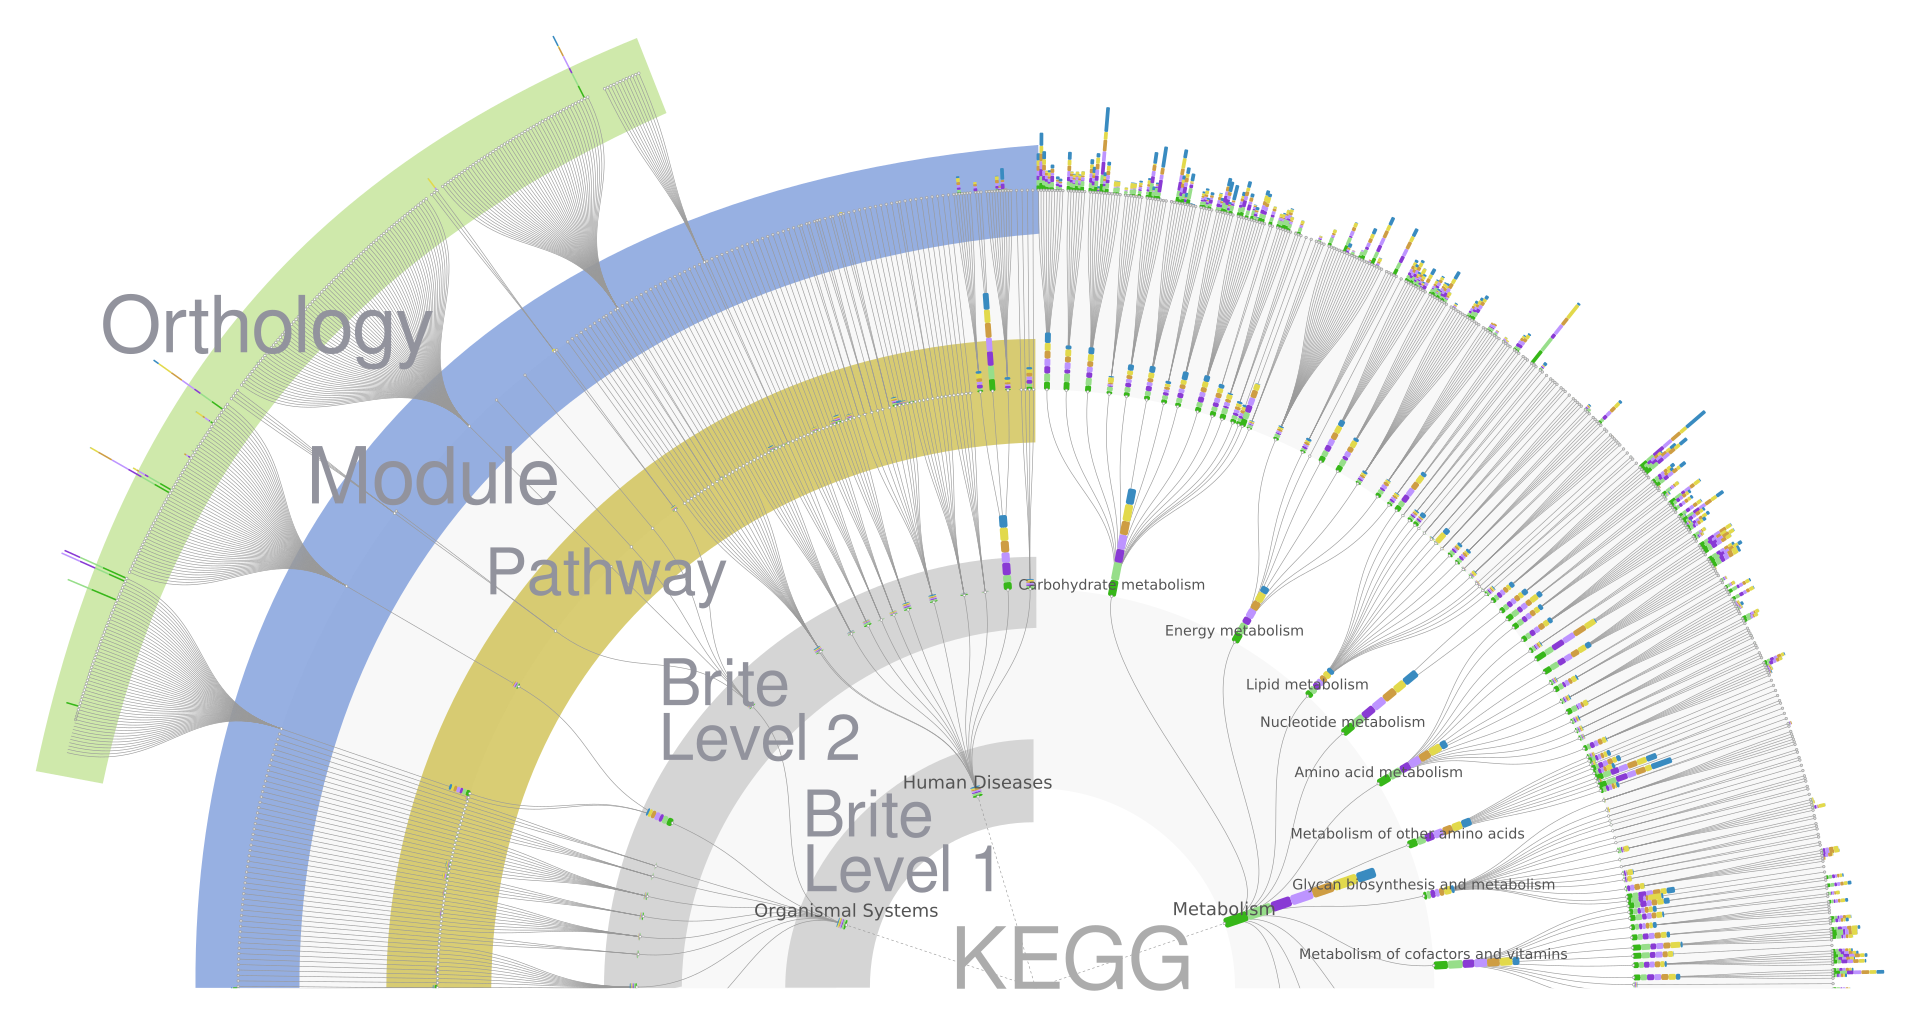
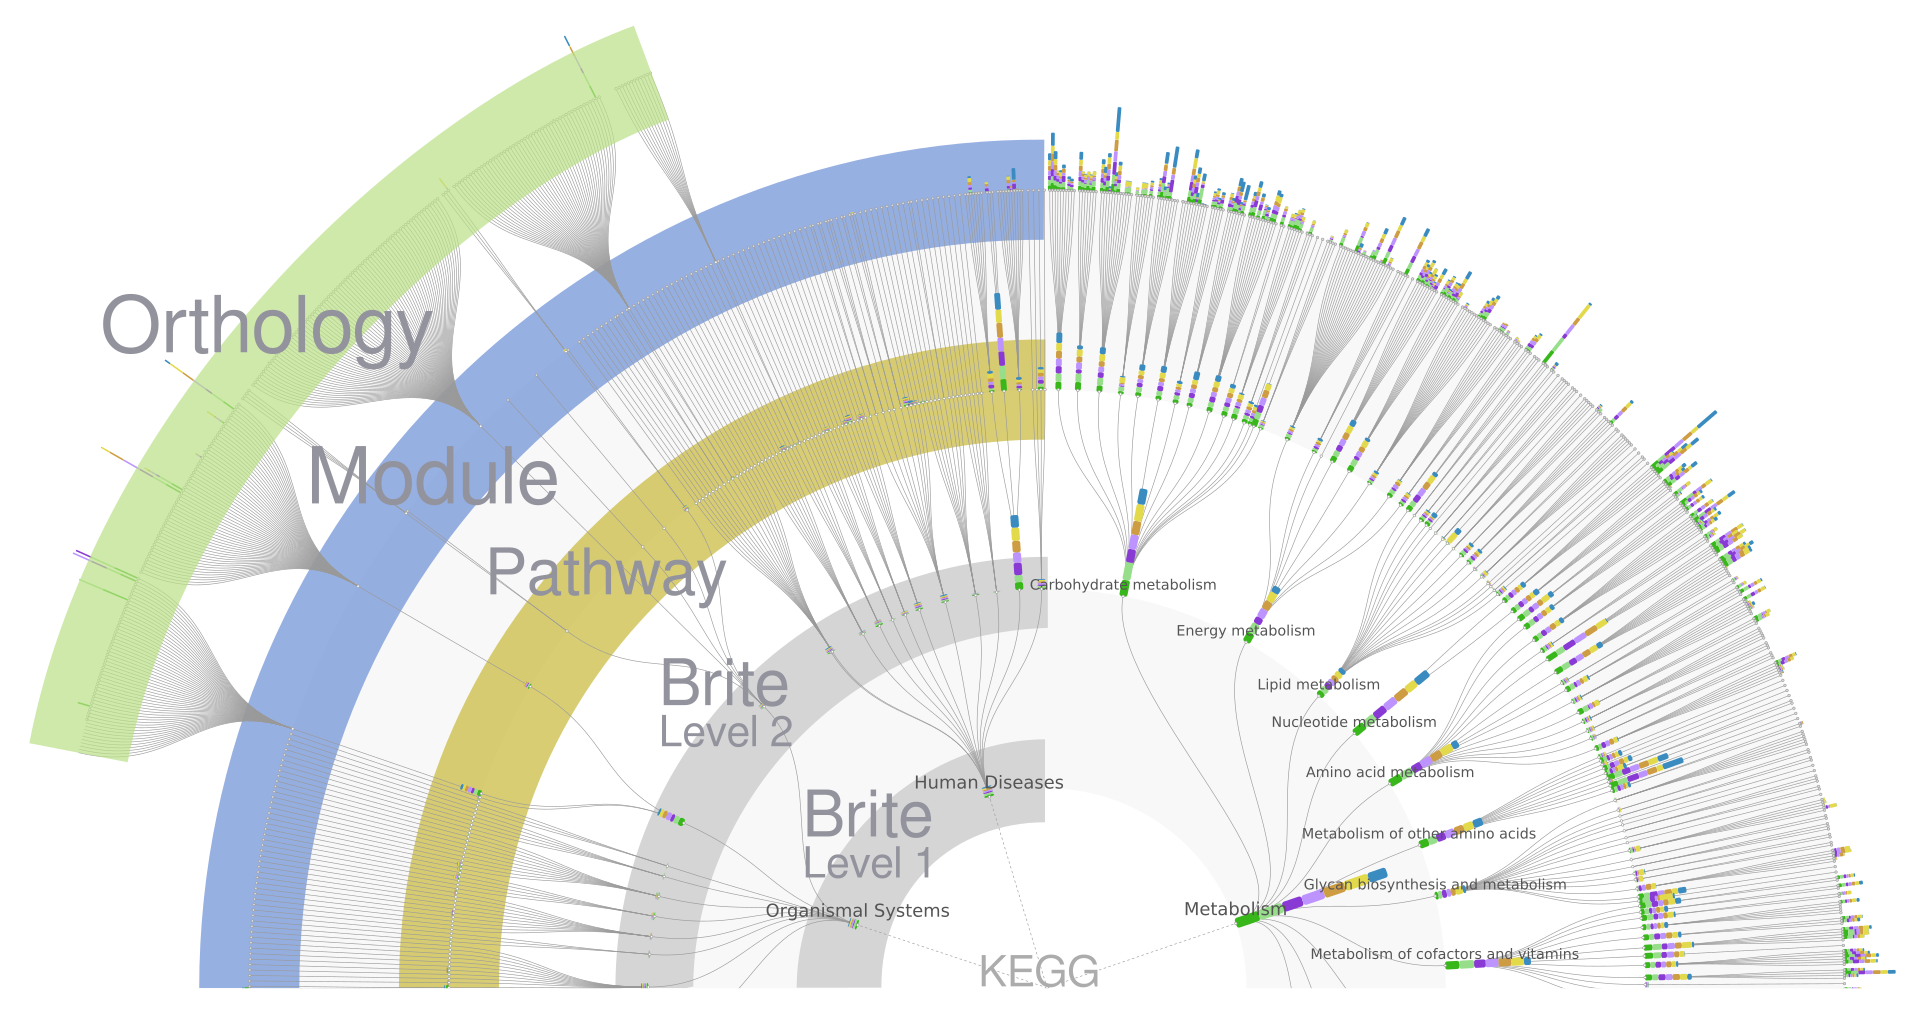
Enabling of generic reference tree upload
- Tested with FOAM

diff --git a/functree/templates/upload.html b/functree/templates/upload.html
@@ -1,0 +1,82 @@
+{% set title = 'Submit' %}
+{% extends 'layout.html' %}
+
+{% block content %}
+<div class="container">
+    <div class="page-header">
+        <h2>Upload reference Tree</h2>
+    </div>
+    <form class="form-horizontal" action="{{ url_for('route_data_upload') }}" method="POST" enctype="multipart/form-data">
+        {{ form.csrf_token }}
+        <fieldset>
+            <div class="panel panel-default">
+                <div class="panel-heading">
+                    <legend>Reference tree upload</legend>
+                    <p>Upload a reference tree to use for mapping<p>
+                </div>
+                <div class="panel-body">
+                    <div class="form-group{% if form.input_file.errors %} has-error{% endif %}">
+                        {{ form.input_file.label(class='col-sm-2 control-label') }}
+                        <div class="col-sm-10">
+                            {{ form.input_file(class_='form-control-file') }}
+                            <span class="help-block">Example: <a href="{{ url_for('static', filename='data/example/reference_tree.json') }}" target="_blank"><i class="fa fa-download" aria-hidden="true"></i> Download</a></span>
+                            {% if form.input_file.errors %}
+                            <span class="help-block">
+                                {% for message in form.input_file.errors %}
+                                    {{ message }}
+                                {% endfor %}
+                            </span>
+                            {% endif %}
+                        </div>
+                    </div>
+                    <div class="form-group{% if form.target.errors %} has-error{% endif %}">
+                        {{ form.target.label(class='col-sm-2 control-label') }}
+                        <div class="col-sm-10">
+                            {{ form.target(class_='form-control') }}
+                            {% if form.target.errors %}
+                            <span class="help-block">
+                                {% for message in form.target.errors %}
+                                    {{ message }}
+                                {% endfor %}
+                            </span>
+                            {% endif %}
+                        </div>
+                    </div>
+                    <div class="form-group{% if form.description.errors %} has-error{% endif %}">
+                        {{ form.description.label(class='col-sm-2 control-label') }}
+                        <div class="col-sm-10">
+                            {{ form.description(class_='form-control', placeholder='A useful description for the result') }}
+                            {% if form.description.errors %}
+                            <span class="help-block">
+                                {% for message in form.description.errors %}
+                                    {{ message }}
+                                {% endfor %}
+                            </span>
+                            {% endif %}
+                        </div>
+                    </div>
+                    <div class="form-group">
+                        <div class="col-sm-10 col-sm-offset-2">
+                            <!-- {{ tags.expiry_notice()}} -->
+                            {{ form.submit(class_='btn btn-primary', **{'data-loading-text': 'Submitting...'}) }}
+                            <input type="reset" class="btn btn-default" value="Reset">
+                        </div>
+                    </div>
+                </div>
+            </div>
+        </fieldset>
+    </form>
+</div>
+{% endblock %}
+
+{% block script %}
+{{super()}}
+<script>
+    $('input[type="submit"]').on('click', function() {
+        $(this).button('loading');
+        setTimeout(function() {
+            $(this).button('reset');
+        }, 600000);
+    });
+</script>
+{% endblock %}

diff --git a/functree/templates/functree.html b/functree/templates/functree.html
@@ -20,11 +20,11 @@
     </div>
 </form>
 <hr>
-<h5><i class="fa fa-cog" aria-hidden="true"></i> Options <a href="#form-options" data-toggle="collapse"><i class="fa fa-caret-down" aria-hidden="true"></i></a></h5>
+<h5><i class="fa fa-cog" aria-hidden="true"></i> Options <a id="options" href="#form-options" data-toggle="collapse"><i class="fa fa-caret-down" aria-hidden="true"></i></a></h5>
 <form id="form-options" class="collapse" v-on:submit.prevent="submit" v-on:reset="reset">
     <div class="form-group">
         <label class="control-label">Data series</label>
-        <select class="form-control input-sm" v-on:change="clickOptionSeries" v-model="series">
+        <select id="series" class="form-control input-sm" v-on:change="clickOptionSeries" v-model="series">
             <option disabled value="">- Select data series -</option>
             <option v-for="(option, index) in options[0]" v-bind:value="index">{% raw %}{{option}}{% endraw %}</option>
         </select>
@@ -32,7 +32,7 @@
     <div class="form-group">
         <label class="control-label">Data mapping: Stacked bars of multiple columns</label>
         <h6>Choose column(s) to map</h6>
-        <select class="form-control input-sm" multiple v-model.number="columnsMultiple">
+        <select id="columns" class="form-control input-sm" multiple v-model.number="columnsMultiple">
             <option v-for="(option, index) in options[1]" v-bind:value="index">{% raw %}{{option}}{% endraw %}</option>
         </select>
         <h6>Stacking</h6>
@@ -71,7 +71,7 @@
         </select>
     </div>
     <div class="form-group text-center">
-        <button type="submit" class="btn btn-primary btn-sm"><i class="fa fa-refresh" aria-hidden="true"></i> Update</button>
+        <button id="update" type="submit" class="btn btn-primary btn-sm"><i class="fa fa-refresh" aria-hidden="true"></i> Update</button>
         <button type="reset" class="btn btn-default btn-sm"> Reset</button>
     </div>
 </form>
@@ -226,7 +226,7 @@
                     this.$set(this.options, 1, profile.columns[this.series]);
                 },
                 'submit': function() {
-                    console.log(this);
+                    //console.log(this);
                     var self = this;
                     var profileDict = {};
                     for (var i in profile.profile) {

diff --git a/functree/static/src/js/functree.js b/functree/static/src/js/functree.js
@@ -647,6 +647,14 @@ const FuncTree = class {
             .text((d) => {
                 return d.name.replace(/ \[.*\]/, '');
             });
+        /*
+        node.append("text")
+        .attr("dy", "0.31em")
+        .attr("x", function(d) { return d.x < Math.PI === !d.children ? 6 : -6; })
+        .attr("text-anchor", function(d) { return d.x < Math.PI === !d.children ? "start" : "end"; })
+        .attr("transform", function(d) { return "rotate(" + (d.x < Math.PI ? d.x - Math.PI / 2 : d.x + Math.PI / 2) * 180 / Math.PI + ")"; })
+        .text(function(d) { return d.id.substring(d.id.lastIndexOf(".") + 1); });*/
+        
         label
             .transition()
             .duration(this.config.duration)

diff --git a/functree/templates/data.html b/functree/templates/data.html
@@ -14,6 +14,11 @@
     <div class="page-header">
         <h3>Functional Trees</h3>
     </div>
+    <div>
+    
+    <a href="{{ url_for('route_data_upload') }}" class="btn btn-primary btn-lg btn-block" >Upload a custom reference tree</a>
+    </div>
+    <br /><br />
     <table id="table-tree" class="table table-hover table-striped" width="100%">
         <thead>
             <tr>

diff --git a/functree/views.py b/functree/views.py
@@ -6,6 +6,7 @@ from selenium.webdriver.chrome.options import Options
 from selenium.webdriver.support.ui import WebDriverWait
 from selenium.webdriver.support import expected_conditions as EC
 from selenium.webdriver.common.by import By
+from selenium.webdriver.support.select import Select
 from selenium.common.exceptions import TimeoutException
 from functree import __version__, app, auth, csrf, filters, forms, models, tree, analysis, cache
 from functree.crckm.src import download as crckm
@@ -27,7 +28,7 @@ def mapping():
 @app.route('/api/comparison/', methods=['POST'])
 @csrf.exempt
 def comparison():
-    form = form = forms.MappingForm(csrf_enabled=False)
+    form = forms.MappingForm(csrf_enabled=False)
     if form.validate_on_submit():
         profile_id = analysis.basic_mapping.from_table(form)
         return jsonify({'profile_id': profile_id})
@@ -44,10 +45,24 @@ def api_viewer():
         chrome_options.add_argument('--headless')
         chrome_options.add_argument('--disable-gpu')
         chrome_options.add_argument('--disable-extensions')
+        chrome_options.add_argument("window-size=1980,1200");
         driver = webdriver.Chrome(chrome_options=chrome_options)
         page=flask.url_for('route_viewer', _external=True) + '?profile_id={}'.format(profile_id)
         browser = driver.get(page)
         driver.implicitly_wait(10)
+        # Add the editing in place
+        options = driver.find_element_by_id("options").click()
+        driver.implicitly_wait(1)
+        series = Select(driver.find_element_by_id("series"))
+        series.select_by_value("0")
+        driver.implicitly_wait(1)
+        columns = Select(driver.find_element_by_id("columns"))
+        columns.select_by_value("0");
+        driver.implicitly_wait(1)
+        driver.save_screenshot('screenie0.png')
+        driver.find_element_by_id("update").click()
+        driver.implicitly_wait(10)
+        driver.save_screenshot('screenie.png')
         svg = driver.find_element_by_tag_name("svg")
         svgEl = svg.get_attribute('outerHTML')
         driver.quit()
@@ -102,6 +117,19 @@ def route_data():
     definitions = models.Definition.objects().all().only(*only)
     return flask.render_template('data.html', trees=trees, definitions=definitions)
 
+@app.route('/data/upload/', methods=['GET', 'POST'])
+def route_data_upload():
+    form = forms.UploadForm()
+    if form.validate_on_submit():
+        models.Tree(
+            tree=tree.from_json(form.input_file.data),
+            source=form.target.data,
+            description=form.description.data,
+            added_at=datetime.datetime.utcnow()).save()
+        cache.clear()
+        return flask.redirect(flask.url_for('route_data'))
+    else:
+        return flask.render_template('upload.html', form=form)    
 
 @app.context_processor
 def utility_processor():

diff --git a/functree/tree.py b/functree/tree.py
@@ -1,5 +1,5 @@
 #!/usr/bin/env python3
-import re, copy, urllib.request, urllib.parse, argparse
+import re, copy, urllib.request, urllib.parse, argparse, json
 
 KEGG_DOWNLOAD_HTEXT_ENDPOINT = 'http://www.genome.jp/kegg-bin/download_htext?'
 EXCLUDES = ['Global and overview maps', 'Drug Development', 'Chemical structure transformation maps']
@@ -124,6 +124,46 @@ def get_tree():
                     node['children'].remove(child_node)
     return root
 
+
+def from_json(path):
+    root = json.load(path)
+    return root
+
+def from_tsv(path, name):
+    '''
+    Turns a TSV formatted hierarchy into a JSON-like, FuncTree compatible hierarchy
+    '''
+    root = Node(entry=name, name=name, layer='root')
+
+    with open(path, 'rU') as mapping_file:
+        levels = mapping_file.readline().strip().split('\t')
+        levels.insert(0, 'root')
+        nodes_layer = {key: {} for key in levels}
+        nodes_layer['root'] = {'root': root}
+
+        for line in mapping_file:
+            entries = line.strip().split('\t')
+            # prefix empty cells by parent id
+            for index, entry in enumerate(entries):
+                if entry == "":
+                    unique_entry = levels[index + 1]
+                    if index == 0:
+                        unique_entry = "root_" + unique_entry
+                    else:
+                        unique_entry = entries[index - 1] + "_" + unique_entry
+                    entries[index] = unique_entry
+
+            for index, entry in enumerate(entries):
+                layer = levels[index + 1]
+                if entry not in nodes_layer[layer]:
+                    parent_layer = levels[index]
+                    node = Node(entry=entry, name=entry, layer=layer)
+                    if index > 0:
+                        nodes_layer[parent_layer][entries[index - 1]].add_child(node)
+                    else:
+                        nodes_layer[parent_layer]['root'].add_child(node)
+                    nodes_layer[layer][entry] = node
+    return root
 
 def download_htext(htext, format='htext'):
     params = {

diff --git a/functree/forms.py b/functree/forms.py
@@ -64,3 +64,20 @@ class DisplayForm(flask_wtf.FlaskForm):
             {'$group': {'_id': '$source'}}
         )
         self.target.choices = [(target['_id'],) * 2 for target in targets]
+        
+class UploadForm(flask_wtf.FlaskForm):
+    input_file = flask_wtf.file.FileField('Input file', validators=[
+        flask_wtf.file.FileRequired()
+    ])
+    target = wtforms.TextField('Database', validators=[
+        wtforms.validators.Length(max=50)
+    ])
+    description = wtforms.TextField('Description', validators=[
+        wtforms.validators.Length(max=50)
+    ])
+
+    private = wtforms.BooleanField('Keep the reference private (Hide from "List of Trees")', default=True)
+    submit = wtforms.SubmitField('Submit')
+
+    def __init__(self, *args, **kwargs):
+        super(UploadForm, self).__init__(*args, **kwargs)
